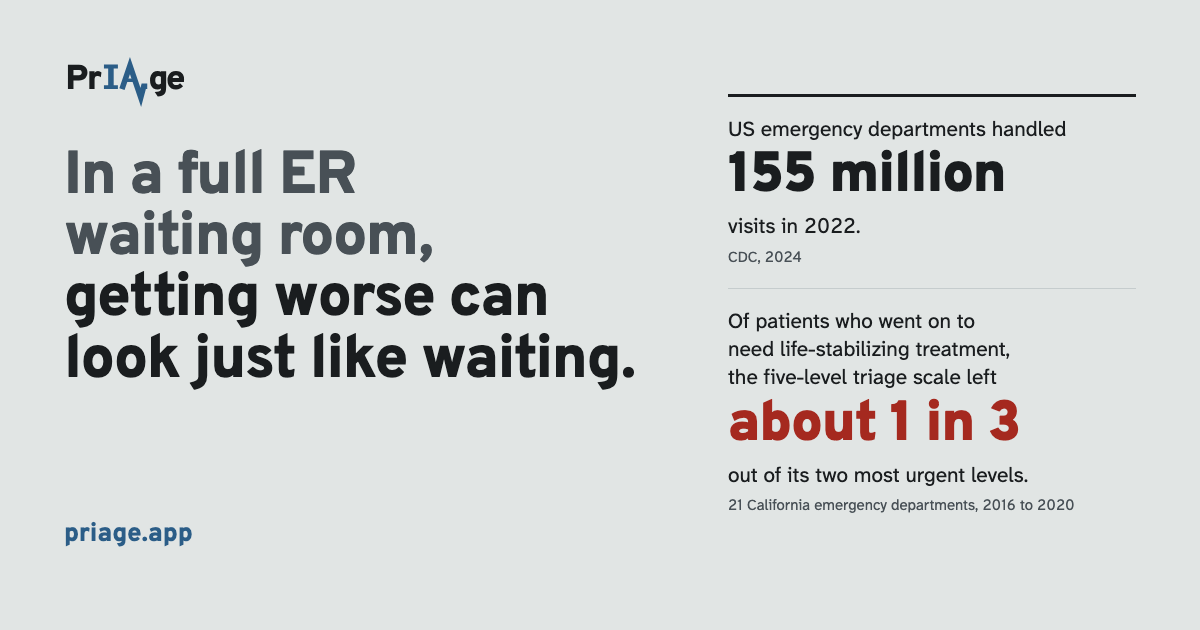
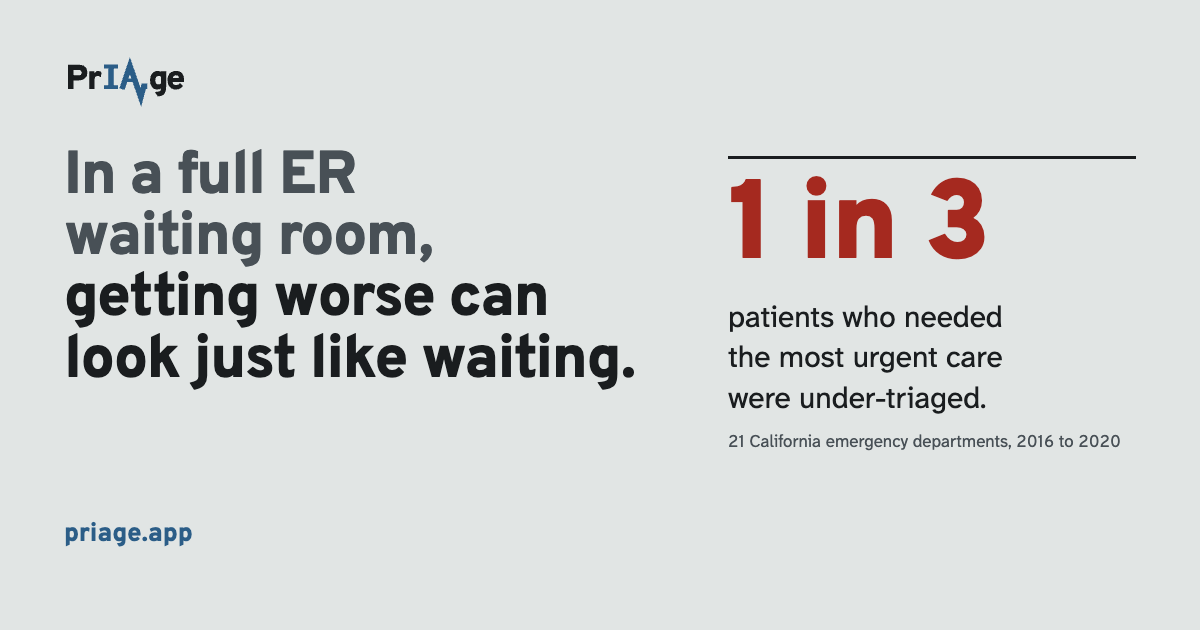
v19: one number, and the period keeps the pulse
The hero states a single figure: 1 in 3 patients who needed the most
urgent care were under-triaged (the triage card carries the nuance and
now uses the same word). The 155 million visits figure and its source
leave the page; sources renumber to seven. The headline trace is gone;
the period of "waiting." pulses 72 times a minute instead, still under
reduced motion. Share card updated to the single number.

Changed region(s): [[0.5858, 0.4825, 0.925, 0.8143], [0.5858, 0.1508, 0.9558, 0.4222]]

diff --git a/docs/index.html b/docs/index.html
@@ -7,25 +7,25 @@
   <meta name="description" content="Patients can wait for hours in the ER, before triage and after it, and it is hard for anyone to see who is getting worse. The numbers, the strain on the people who work there, and what PrIAge is working on.">
   <meta name="robots" content="noindex, nofollow, noarchive, nosnippet, noimageindex">
   <meta name="theme-color" content="#2b5d87">
-  <link rel="icon" href="favicon.svg?v=18" type="image/svg+xml">
+  <link rel="icon" href="favicon.svg?v=19" type="image/svg+xml">
   <link rel="apple-touch-icon" href="apple-touch-icon.png">
   <meta property="og:type" content="website">
   <meta property="og:url" content="https://priage.app/">
   <meta property="og:title" content="In a full ER waiting room, getting worse can look just like waiting.">
   <meta property="og:description" content="Patients can wait for hours in the ER, and it is hard for anyone to see who is getting worse. What happens while people wait, and what PrIAge is working on.">
-  <meta property="og:image" content="https://priage.app/og.png?v=18">
+  <meta property="og:image" content="https://priage.app/og.png?v=19">
   <meta name="twitter:card" content="summary_large_image">
   <link rel="preload" href="fonts/overpass.woff2" as="font" type="font/woff2" crossorigin>
   <link rel="preload" href="fonts/atkinson-next.woff2" as="font" type="font/woff2" crossorigin>
-  <link rel="stylesheet" href="styles.css?v=18">
-  <script src="app.js?v=18" defer></script>
+  <link rel="stylesheet" href="styles.css?v=19">
+  <script src="app.js?v=19" defer></script>
 </head>
 <body>
   <a class="skip" href="#top">Skip to content</a>
 
   <header class="top">
     <div class="wrap nav">
-      <a class="wordmark" href="#top"><img src="logo.svg?v=18" alt="PrIAge" width="120" height="50"></a>
+      <a class="wordmark" href="#top"><img src="logo.svg?v=19" alt="PrIAge" width="120" height="50"></a>
       <nav aria-label="Main">
         <ul>
           <li class="nav-quiet"><a href="#story">The numbers</a></li>
@@ -39,22 +39,12 @@
   <main id="top">
     <section class="hero" aria-labelledby="hero-title">
       <div class="wrap hero-grid">
-        <h1 id="hero-title"><span class="h1-setup">In a full ER waiting room,</span> <span class="h1-turn">getting worse can look just like <span class="h1-end">waiting.<i class="pulse-anchor"></i></span></span><span class="pulse" aria-hidden="true"><svg class="ekg"></svg></span></h1>
+        <h1 id="hero-title"><span class="h1-setup">In a full ER waiting room,</span> <span class="h1-turn">getting worse can look just like waiting<span class="h1-dot">.</span></span></h1>
         <p class="lede">Patients can wait for hours, before triage and after it. While they wait, it is hard for anyone to see who is getting worse.</p>
-        <ul class="hero-stats">
-          <li class="stat">
-            <p class="stat-lead">US emergency departments handled</p>
-            <p class="stat-n">155 million</p>
-            <p class="stat-t">visits in 2022.</p>
-            <p class="stat-src">CDC, 2024<a class="ref" href="#src-1">[1]</a></p>
-          </li>
-          <li class="stat stat-hot">
-            <p class="stat-lead">Of patients who went on to need life-stabilizing treatment, the five-level triage scale left</p>
-            <p class="stat-n">about 1 in 3</p>
-            <p class="stat-t">out of its two most urgent levels.</p>
-            <p class="stat-src">21 emergency departments in one California health system, 2016 to 2020<a class="ref" href="#src-3">[3]</a></p>
-          </li>
-        </ul>
+        <div class="hero-stat">
+          <p class="stat-n">1 in 3</p>
+          <p class="stat-t">patients who needed the most urgent care were under-triaged.<a class="ref" href="#src-2">[2]</a></p>
+        </div>
         <div class="ai-plate">
           <div class="ai-copy">
             <p class="ai-line"><b>PrIAge</b> plans to use AI to help improve outcomes for patients and the professionals who care for them.</p>
@@ -94,7 +84,7 @@
               <p class="key-line" aria-hidden="true"><span><i class="k k-red"></i>Waited over 10 minutes</span><span><i class="k"></i>10 minutes or less</span><span><i class="k k-empty"></i>Empty seat</span></p>
             </div>
             <div class="answer"><b class="n" id="busy-pct">68%</b><p>waited more than 10 minutes to be triaged</p></div>
-            <figcaption class="src">One US emergency department<span class="sep">·</span><a href="#src-2">Houston et al., 2015 [2]</a></figcaption>
+            <figcaption class="src">One US emergency department<span class="sep">·</span><a href="#src-1">Houston et al., 2015 [1]</a></figcaption>
           </figure>
         </li>
 
@@ -104,8 +94,8 @@
             <p class="q">Triage sorts patients into five levels. Of 100 patients who went on to need life-stabilizing treatment, how many were not placed in the two most urgent levels?</p>
             <div class="stage seats-field" aria-hidden="true"></div>
             <noscript><p class="noscript">The chairs need JavaScript; the number is below.</p></noscript>
-            <div class="answer"><b class="n"><span id="triage-count">34</span> of 100</b><p>were not placed in the two most urgent levels. Each chair is one patient.</p></div>
-            <figcaption class="src">21 California emergency departments, 5.3 million adult visits, 2016 to 2020<span class="sep">·</span><a href="#src-3">Sax et al., 2023 [3]</a></figcaption>
+            <div class="answer"><b class="n"><span id="triage-count">34</span> of 100</b><p>were under-triaged: not placed in the two most urgent levels. Each chair is one patient.</p></div>
+            <figcaption class="src">21 California emergency departments, 5.3 million adult visits, 2016 to 2020<span class="sep">·</span><a href="#src-2">Sax et al., 2023 [2]</a></figcaption>
           </figure>
         </li>
 
@@ -118,7 +108,7 @@
               <div class="sign hot"><svg viewBox="0 0 24 24"><path d="M4 12h14m-6-6 6 6-6 6" fill="none" stroke="currentColor" stroke-width="3" stroke-linecap="square"/></svg><span>Left without being seen</span></div>
             </div>
             <div class="answer"><b class="n">2.59 times</b><p>the odds of dying within 30 days for people who left without being seen, after adjusting for other factors</p></div>
-            <figcaption class="src">10 US emergency departments, 1.5 million adult visits<span class="sep">·</span><a href="#src-4">Joseph et al., 2025 [4]</a></figcaption>
+            <figcaption class="src">10 US emergency departments, 1.5 million adult visits<span class="sep">·</span><a href="#src-3">Joseph et al., 2025 [3]</a></figcaption>
           </figure>
         </li>
 
@@ -130,7 +120,7 @@
               <svg class="clock-svg" viewBox="-120 -120 240 240" aria-hidden="true"></svg>
             </div>
             <div class="answer"><b class="n" id="bed-pct">4.5%</b><p id="bed-text">died in the hospital after waiting 12 hours or more, compared with 2.5% for waits under 2 hours</p></div>
-            <figcaption class="src">One US hospital, 41,256 admissions<span class="sep">·</span><a href="#src-5">Singer et al., 2011 [5]</a></figcaption>
+            <figcaption class="src">One US hospital, 41,256 admissions<span class="sep">·</span><a href="#src-4">Singer et al., 2011 [4]</a></figcaption>
           </figure>
         </li>
 
@@ -151,7 +141,7 @@
               </div>
             </div>
             <div class="answer"><b class="n n-ink" id="ward-num">75.3%</b><p id="ward-text">of staffed beds in use on an average day after the pandemic, up from 63.9% before it, as staffed beds fell from 802,000 to 674,000</p></div>
-            <figcaption class="src">US national hospital data, 2009 to 2024<span class="sep">·</span><a href="#src-6">Leuchter et al., 2025 [6]</a></figcaption>
+            <figcaption class="src">US national hospital data, 2009 to 2024<span class="sep">·</span><a href="#src-5">Leuchter et al., 2025 [5]</a></figcaption>
           </figure>
         </li>
 
@@ -161,7 +151,7 @@
             <p class="q">Of 100 nurses who left a job because of burnout, how many said staffing was inadequate?</p>
             <div class="stage locker-field" aria-hidden="true"></div>
             <div class="answer"><b class="n"><span id="locker-count">63</span> of 100</b><p>said staffing was inadequate. Each locker is one nurse.</p></div>
-            <figcaption class="src">Survey of 50,273 US registered nurses<span class="sep">·</span><a href="#src-7">Shah et al., 2021 [7]</a></figcaption>
+            <figcaption class="src">Survey of 50,273 US registered nurses<span class="sep">·</span><a href="#src-6">Shah et al., 2021 [6]</a></figcaption>
           </figure>
         </li>
 
@@ -186,7 +176,7 @@
               </div>
             </div>
             <div class="answer"><b class="n n-ink">$863 more</b><p>a day per stroke patient waiting in the ER, with 20 fewer minutes of nursing time</p></div>
-            <figcaption class="src">One US stroke center<span class="sep">·</span><a href="#src-8">Canellas et al., 2024 [8]</a></figcaption>
+            <figcaption class="src">One US stroke center<span class="sep">·</span><a href="#src-7">Canellas et al., 2024 [7]</a></figcaption>
           </figure>
         </li>
 
@@ -268,28 +258,26 @@
   <footer class="sources" aria-labelledby="sources-title">
     <div class="wrap">
       <details class="src-box" id="sources">
-        <summary><h2 id="sources-title">Sources</h2><span class="src-box-note">Eight studies and reports, with the sentence behind each number</span></summary>
+        <summary><h2 id="sources-title">Sources</h2><span class="src-box-note">Seven studies and reports, with the sentence behind each number</span></summary>
         <p class="sources-note">Each number is quoted from these sentences or worked out from them, as shown. Study sizes, places and years come from the same papers.</p>
         <ol>
-          <li id="src-1">Cairns C, Ashman JJ, Kang K. Emergency Department Visit Rates by Selected Characteristics: United States, 2022. NCHS Data Brief No. 503. National Center for Health Statistics; 2024. <a href="https://www.cdc.gov/nchs/products/databriefs/db503.htm">cdc.gov</a>
-            <q>In 2022, 155 million emergency department (ED) visits occurred in the United States.</q></li>
-          <li id="src-2">Houston C, Sanchez LD, Fischer C, Volz K, Wolfe R. Waiting for triage: unmeasured time in patient flow. <i>Western Journal of Emergency Medicine</i>. 2015. <a href="https://doi.org/10.5811/westjem.2014.11.22824">doi:10.5811/westjem.2014.11.22824</a>
+          <li id="src-1">Houston C, Sanchez LD, Fischer C, Volz K, Wolfe R. Waiting for triage: unmeasured time in patient flow. <i>Western Journal of Emergency Medicine</i>. 2015. <a href="https://doi.org/10.5811/westjem.2014.11.22824">doi:10.5811/westjem.2014.11.22824</a>
             <q>When stratified by the number of new patients who arrived in the ED in the previous hour, the percentage of greeted patients who waited more than 10 minutes for triage was: 0-5 new patients - 12.4%; 6-10 new patients - 48.8%; 11-15 new patients - 64.4%; 16+ new patients - 68%.</q>
             <span class="gloss">The drawing uses the nearest whole seats: 1 of 8, 6 of 12, 11 of 17 and 15 of 22.</span></li>
-          <li id="src-3">Sax DR, Warton EM, Mark DG, et al. Evaluation of Version 4 of the Emergency Severity Index in US Emergency Departments for the Rate of Mistriage. <i>JAMA Network Open</i>. 2023;6(3):e233404. <a href="https://doi.org/10.1001/jamanetworkopen.2023.3404">doi:10.1001/jamanetworkopen.2023.3404</a>
+          <li id="src-2">Sax DR, Warton EM, Mark DG, et al. Evaluation of Version 4 of the Emergency Severity Index in US Emergency Departments for the Rate of Mistriage. <i>JAMA Network Open</i>. 2023;6(3):e233404. <a href="https://doi.org/10.1001/jamanetworkopen.2023.3404">doi:10.1001/jamanetworkopen.2023.3404</a>
             <q>The sensitivity of ESI to identify a patient with high-acuity illness (correctly assigning ESI I or II among patients who had a life-stabilizing intervention) was 65.9%.</q>
             <span class="gloss">ESI is the five-level triage scale; ESI I and II are its two most urgent levels. 100 minus 65.9 is 34.1, shown as 34 of 100 and about 1 in 3. Adult visits from January 2016 to December 2020 at 21 Kaiser Permanente Northern California emergency departments.</span></li>
-          <li id="src-4">Joseph JW, Bukhman AK, Baymon DE, et al. Mortality and Return Visit Frequency Among Emergency Department Patients Who Leave Without Being Seen at a Regional Health Care System. <i>Joint Commission Journal on Quality and Patient Safety</i>. 2025;51(7-8):466-473. <a href="https://doi.org/10.1016/j.jcjq.2025.02.008">doi:10.1016/j.jcjq.2025.02.008</a>
+          <li id="src-3">Joseph JW, Bukhman AK, Baymon DE, et al. Mortality and Return Visit Frequency Among Emergency Department Patients Who Leave Without Being Seen at a Regional Health Care System. <i>Joint Commission Journal on Quality and Patient Safety</i>. 2025;51(7-8):466-473. <a href="https://doi.org/10.1016/j.jcjq.2025.02.008">doi:10.1016/j.jcjq.2025.02.008</a>
             <q>Independent of other clinical and demographic variables, LWBS was associated with more frequent returns within 72 hours (adjusted odds ratio [AOR] 2.56, 95% CI 2.50-2.62, p &lt; 0.001), 30-day ICU admission (AOR 1.35, 95% CI 1.27-1.66, p &lt; 0.001), and mortality within 30 days (AOR 2.59, 95% CI 1.90-3.53, p &lt;0.001).</q>
             <span class="gloss">LWBS means left without being seen. The comparison group is patients who were seen and sent home.</span></li>
-          <li id="src-5">Singer AJ, Thode HC, Viccellio P, Pines JM. The association between length of emergency department boarding and mortality. <i>Academic Emergency Medicine</i>. 2011. <a href="https://doi.org/10.1111/j.1553-2712.2011.01236.x">doi:10.1111/j.1553-2712.2011.01236.x</a>
+          <li id="src-4">Singer AJ, Thode HC, Viccellio P, Pines JM. The association between length of emergency department boarding and mortality. <i>Academic Emergency Medicine</i>. 2011. <a href="https://doi.org/10.1111/j.1553-2712.2011.01236.x">doi:10.1111/j.1553-2712.2011.01236.x</a>
             <q>Mortality generally increased with increasing boarding time, from 2.5% in patients boarded less than 2 hours to 4.5% in patients boarding 12 hours or more.</q></li>
-          <li id="src-6">Leuchter RK, Delarmente BA, Vangala S, Tsugawa Y, Sarkisian CA. Health Care Staffing Shortages and Potential National Hospital Bed Shortage. <i>JAMA Network Open</i>. 2025;8(2):e2460645. <a href="https://doi.org/10.1001/jamanetworkopen.2024.60645">doi:10.1001/jamanetworkopen.2024.60645</a>
+          <li id="src-5">Leuchter RK, Delarmente BA, Vangala S, Tsugawa Y, Sarkisian CA. Health Care Staffing Shortages and Potential National Hospital Bed Shortage. <i>JAMA Network Open</i>. 2025;8(2):e2460645. <a href="https://doi.org/10.1001/jamanetworkopen.2024.60645">doi:10.1001/jamanetworkopen.2024.60645</a>
             <q>The number of staffed hospital beds declined from a prepandemic steady state of 802 000 (2009-2019 mean) to a post-PHE steady state of 674 000, whereas the mean daily census steady state remained at approximately 510 000</q>
             <q>The mean US hospital occupancy was 63.9% (range, 63%-66%) from 2009 to 2019 compared with 75.3% (range, 72%-79%) in the year following the end of the COVID-19 public health emergency (PHE; May 2023 to April 2024)</q></li>
-          <li id="src-7">Shah MK, Gandrakota N, Cimiotti JP, Ghose N, Moore M, Ali MK. Prevalence of and Factors Associated With Nurse Burnout in the US. <i>JAMA Network Open</i>. 2021;4(2):e2036469. <a href="https://doi.org/10.1001/jamanetworkopen.2020.36469">doi:10.1001/jamanetworkopen.2020.36469</a>
+          <li id="src-6">Shah MK, Gandrakota N, Cimiotti JP, Ghose N, Moore M, Ali MK. Prevalence of and Factors Associated With Nurse Burnout in the US. <i>JAMA Network Open</i>. 2021;4(2):e2036469. <a href="https://doi.org/10.1001/jamanetworkopen.2020.36469">doi:10.1001/jamanetworkopen.2020.36469</a>
             <q>Respondents who reported leaving or considering leaving their job owing to burnout reported a stressful work environment (68.6% and 59.5%, respectively) and inadequate staffing (63.0% and 60.9%, respectively).</q></li>
-          <li id="src-8">Canellas MM, Jewell M, Edwards JL, Olivier D, Jun-O'Connell AH, Reznek MA. Measurement of Cost of Boarding in the Emergency Department Using Time-Driven Activity-Based Costing. <i>Annals of Emergency Medicine</i>. 2024;84(4):376-385. <a href="https://doi.org/10.1016/j.annemergmed.2024.04.012">doi:10.1016/j.annemergmed.2024.04.012</a>
+          <li id="src-7">Canellas MM, Jewell M, Edwards JL, Olivier D, Jun-O'Connell AH, Reznek MA. Measurement of Cost of Boarding in the Emergency Department Using Time-Driven Activity-Based Costing. <i>Annals of Emergency Medicine</i>. 2024;84(4):376-385. <a href="https://doi.org/10.1016/j.annemergmed.2024.04.012">doi:10.1016/j.annemergmed.2024.04.012</a>
             <q>The total daily cost per patient with acute stroke was US$1856, for med/surg boarding versus US$993 for med/surg inpatient care</q>
             <q>ED nurses spent 293 min/d (mean) caring for each med/surg boarder; inpatient nurses spent 313 min/d for each med/surg inpatient.</q>
             <span class="gloss">$1,856 minus $993 is $863; 313 minus 293 is 20 minutes.</span></li>

diff --git a/docs/styles.css b/docs/styles.css
@@ -176,23 +176,17 @@ p { text-wrap: pretty; }
 /* a setup and a punchline: the second line lands darker */
 .hero h1 { grid-area: title; font-size: clamp(2.5rem, 1.2rem + 4.2vw, 4.75rem); line-height: 1; letter-spacing: -0.022em; }
 .h1-setup, .h1-turn { display: block; }
-/* the pulse runs out of the last word, on the headline's baseline (placed by app.js) */
-.hero h1 { position: relative; }
-.pulse-anchor { display: inline-block; width: 0; height: 0; vertical-align: baseline; }
-.pulse { position: absolute; left: 0; top: 0; width: 0; height: 0; pointer-events: none; }
-.pulse svg { display: block; width: 100%; height: 100%; overflow: visible; }
-.ekg-line { fill: none; stroke: var(--seat); stroke-linejoin: round; stroke-linecap: round; }
-.ekg-gap { fill: var(--floor); }
-.ekg-dot { fill: var(--seat); }
-.ekg-ring { fill: none; stroke: var(--seat); opacity: 0; transform-box: fill-box; transform-origin: center; }
-@keyframes ekg-blink {
-  0%, 31% { opacity: 0; transform: scale(1); }
-  33% { opacity: 0.6; transform: scale(1); }
-  80%, 100% { opacity: 0; transform: scale(3.2); }
-}
 .h1-setup { color: var(--ink-soft); }
+/* the period of "waiting." is the page's pulse: 72 times a minute it flushes Seat Blue and
+   swells a little, then settles back to ink */
+.h1-dot { display: inline-block; transform-origin: 50% 80%; animation: period-beat 833.333ms linear infinite; }
+@keyframes period-beat {
+  0% { color: var(--ink); transform: scale(1); }
+  5% { color: var(--seat); transform: scale(1.25); animation-timing-function: cubic-bezier(0.33, 0, 0.2, 1); }
+  55%, 100% { color: var(--ink); transform: scale(1); }
+}
 .lede { grid-area: lede; align-self: start; margin-top: 28px; max-width: 34ch; font-size: clamp(1.1875rem, 1.05rem + 0.45vw, 1.375rem); line-height: 1.5; }
-.hero-stats { grid-area: stats; margin-top: 28px; align-self: start; }
+.hero-stat { grid-area: stats; margin-top: 28px; align-self: start; }
 
 /* PrIAge's line, featured: a dark plate that carries the ask */
 .ai-plate {
@@ -209,16 +203,10 @@ p { text-wrap: pretty; }
 .ai-stage { margin-top: 8px; font-size: 1rem; color: var(--on-seat-soft); }
 .ai-plate .btn { flex: none; }
 
-/* two numbers that state the problem before any scrolling */
-.hero-stats { border-top: 2px solid var(--ink); }
-.stat { padding-block: 20px 22px; }
-.stat + .stat { border-top: 1px solid var(--rule); }
-/* each stat reads as one sentence split around its number: who, how many, what happened */
-.stat-lead { max-width: 34ch; font-size: 1.0625rem; line-height: 1.4; }
-.stat-n { margin-top: 6px; white-space: nowrap; font-family: var(--sign); font-weight: 900; font-size: clamp(2.25rem, 1.2rem + 2.4vw, 3.625rem); line-height: 0.95; letter-spacing: -0.02em; font-variant-numeric: tabular-nums; }
-.stat-hot .stat-n { color: var(--mark-ink); }
-.stat-t { margin-top: 6px; max-width: 32ch; font-size: 1.0625rem; line-height: 1.4; }
-.stat-src { margin-top: 6px; font-size: 0.8125rem; color: var(--ink-soft); }
+/* one number states the problem before any scrolling; the triage card gives its nuance */
+.hero-stat { display: flex; flex-wrap: wrap; align-items: center; gap: 8px 28px; padding-block: 20px 22px; border-top: 2px solid var(--ink); }
+.stat-n { white-space: nowrap; font-family: var(--sign); font-weight: 900; font-size: clamp(3rem, 1.6rem + 3.4vw, 5rem); line-height: 0.95; letter-spacing: -0.02em; font-variant-numeric: tabular-nums; color: var(--mark-ink); }
+.stat-t { flex: 1 1 16ch; max-width: 30ch; font-size: clamp(1.1875rem, 1.05rem + 0.45vw, 1.375rem); line-height: 1.4; text-wrap: balance; }
 
 /* ---------- The story: a strip of scenes that scrolls sideways ---------- */
 
@@ -507,14 +495,7 @@ p { text-wrap: pretty; }
   /* on narrow screens the numbers sit right under the sentence they prove */
   .hero-grid { grid-template-columns: minmax(0, 1fr); grid-template-areas: "title" "lede" "stats" "plate"; }
   .lede { max-width: 44ch; margin-top: 20px; }
-  .hero-stats { margin-top: 24px; }
-}
-@media (min-width: 600px) {
-  .hero-stats { display: grid; grid-template-columns: repeat(2, minmax(0, 1fr)); grid-template-rows: repeat(4, auto); column-gap: 32px; }
-  /* subgrid lines the two numbers up on one row however long each lead-in runs */
-  .stat { display: grid; grid-row: span 4; grid-template-rows: subgrid; align-content: start; }
-  .stat-n { align-self: end; }
-  .stat + .stat { border-top: 0; }
+  .hero-stat { margin-top: 24px; }
 }
 
 /* ---------- Phones ---------- */
@@ -526,8 +507,7 @@ p { text-wrap: pretty; }
   .nav .nav-quiet { display: none; }
   .nav .nav-talk { padding: 13px 14px; font-size: 0.9375rem; }
   .btn { font-size: 1.0625rem; }
-  .stat { padding-block: 16px 18px; }
-  .stat-n { font-size: 2.375rem; }
+  .hero-stat { padding-block: 16px 18px; }
   .room-sub { min-height: 2.9em; }
   .ai-plate { flex-direction: column; align-items: flex-start; }
   .people { grid-template-columns: minmax(0, 1fr); }
@@ -548,8 +528,8 @@ p { text-wrap: pretty; }
 
 @media (prefers-reduced-motion: reduce) {
   *, *::before, *::after { transition-duration: 0s !important; scroll-behavior: auto !important; }
-  /* the trace stays, still */
-  .ekg-gap, .ekg-head { display: none; }
+  /* the period holds still */
+  .h1-dot { animation: none; }
 }
 
 @media print {

diff --git a/docs/app.js b/docs/app.js
@@ -88,68 +88,6 @@
     io.observe(node);
   }
 
-  // ---------- The pulse that runs out of "waiting." ----------
-  // A bedside-monitor trace on the headline's baseline: the line holds still, a gap sweeps
-  // across it, and a dot rides the leading edge and pulses on every beat. 72 beats a minute.
-  const title = document.getElementById("hero-title");
-  const pulse = title?.querySelector(".pulse");
-  if (pulse) {
-    const svg = pulse.querySelector("svg"), anchor = title.querySelector(".pulse-anchor");
-    const BEAT_MS = 60000 / 72;
-    const sheet = document.createElement("style");
-    document.head.append(sheet);
-    // one beat, u from 0 to 1: P wave, the QRS spike, T wave
-    const wave = (u) => {
-      const g = (c, w, a) => a * Math.exp(-((u - c) ** 2) / (2 * w * w));
-      return g(0.16, 0.028, 0.11) + g(0.3, 0.008, -0.1) + g(0.33, 0.009, 1) + g(0.36, 0.01, -0.26) + g(0.58, 0.05, 0.22);
-    };
-    let lastKey = "";
-    const place = () => {
-      title.style.paddingBottom = "";
-      const fs = parseFloat(getComputedStyle(title).fontSize);
-      const box = title.getBoundingClientRect(), a = anchor.getBoundingClientRect();
-      const h = Math.round(fs * 0.95), base = Math.round(h * 0.82), beatW = fs * 1.5, gap = fs * 0.22;
-      let left = a.left - box.left + gap, w = box.width - left, top = a.top - box.top - base;
-      if (w < beatW * 1.6) {
-        // too little room after the word: the pulse takes its own line, starting under "waiting."
-        const word = title.querySelector(".h1-end").getClientRects();
-        left = word[word.length - 1].left - box.left;
-        if (box.width - left < beatW * 1.6) left = 0;
-        w = box.width - left; top = a.top - box.top + fs * 0.32 - base + h;
-        title.style.paddingBottom = `${Math.round(h * 0.9)}px`;
-      }
-      w = Math.round(w);
-      Object.assign(pulse.style, { left: `${left}px`, top: `${top}px`, width: `${w}px`, height: `${h}px` });
-      const key = `${w}x${h}`;
-      if (key === lastKey) return;
-      lastKey = key;
-      // a whole number of beats per sweep keeps the dot and the blink in step forever
-      const beats = Math.max(1, Math.round(w / beatW)), period = w / beats, amp = h * 0.8;
-      const y = (x) => base - amp * wave((x / period) % 1);
-      let d = "";
-      for (let x = 0; x <= w; x++) d += `${x ? "L" : "M"}${x} ${y(x).toFixed(1)}`;
-      const sw = Math.max(2.5, fs * 0.07), r = Math.max(4, fs * 0.075);
-      svg.setAttribute("viewBox", `0 0 ${w} ${h}`);
-      svg.innerHTML = `<path class="ekg-line" d="${d}" stroke-width="${sw.toFixed(1)}"/>`
-        + `<rect class="ekg-gap" x="0" y="${-h * 0.1}" width="${Math.round(period * 0.28)}" height="${h * 1.3}"/>`
-        + `<g class="ekg-head"><circle class="ekg-ring" r="${r.toFixed(1)}" stroke-width="${(sw * 0.6).toFixed(1)}"/><circle class="ekg-dot" r="${r.toFixed(1)}"/></g>`;
-      const sweep = beats * BEAT_MS, steps = Math.round(w / 1.5);
-      let k = "";
-      for (let i = 0; i <= steps; i++) {
-        const x = (w * i) / steps;
-        k += `${((100 * i) / steps).toFixed(3)}%{transform:translate(${x.toFixed(1)}px,${y(x).toFixed(1)}px)}`;
-      }
-      sheet.textContent = `@keyframes ekg-head{${k}}`
-        + `@keyframes ekg-gap{from{transform:translateX(0)}to{transform:translateX(${w}px)}}`
-        + `.ekg-head{animation:ekg-head ${sweep}ms linear infinite}`
-        + `.ekg-gap{animation:ekg-gap ${sweep}ms linear infinite}`
-        + `.ekg-ring{animation:ekg-blink ${BEAT_MS}ms linear infinite}`;
-    };
-    place();
-    addEventListener("resize", place);
-    document.fonts?.ready.then(place);
-  }
-
   // ---------- 1. The wait to be triaged: the room fills up ----------
   const room = document.querySelector('[data-scene="room"]');
   if (room) {

diff --git a/brand/build/og.html b/brand/build/og.html
@@ -23,11 +23,11 @@
   .stats { align-self: center; border-top: 3px solid #1a1d1f; }
   .stat { padding: 18px 0 20px; }
   .stat + .stat { border-top: 1px solid #c5cccd; }
-  .n { font: 900 56px/0.95 "Overpass", sans-serif; letter-spacing: -0.02em; }
+  .n { font: 900 112px/0.95 "Overpass", sans-serif; letter-spacing: -0.02em; }
   .hot .n { color: #a5291f; }
   .lead { font-size: 21px; line-height: 1.35; max-width: 430px; text-wrap: balance; margin-bottom: 8px; }
-  .t { margin-top: 8px; font-size: 21px; line-height: 1.35; max-width: 430px; text-wrap: balance; }
-  .src { margin-top: 6px; font-size: 15px; color: #485056; }
+  .t { margin-top: 14px; font-size: 30px; line-height: 1.35; max-width: 430px; text-wrap: balance; }
+  .src { margin-top: 12px; font-size: 17px; color: #485056; }
   .nb { white-space: nowrap; }
   .bench { width: 96px; height: auto; margin-bottom: 14px; overflow: visible; display: block; }
   .chair rect { fill: #2b5d87; } .chair .leg { fill: #1f4566; }
@@ -42,16 +42,9 @@
     <p class="url">priage.app</p>
   </div>
   <div class="stats">
-    <div class="stat">
-      <div class="lead">US emergency departments handled</div>
-      <div class="n">155 million</div>
-      <div class="t">visits in 2022.</div>
-      <div class="src">CDC, 2024</div>
-    </div>
     <div class="stat hot">
-      <div class="lead">Of patients who went on to need <span class="nb">life-stabilizing</span> treatment, the five-level triage scale left</div>
-      <div class="n">about 1 in 3</div>
-      <div class="t">out of its two most urgent levels.</div>
+      <div class="n">1 in 3</div>
+      <div class="t">patients who needed the most urgent care were under-triaged.</div>
       <div class="src">21 California emergency departments, 2016 to 2020</div>
     </div>
   </div>

diff --git a/docs/404.html b/docs/404.html
@@ -5,14 +5,14 @@
   <meta name="viewport" content="width=device-width, initial-scale=1">
   <title>Page not found · PrIAge</title>
   <meta name="robots" content="noindex, nofollow, noarchive">
-  <link rel="icon" href="/favicon.svg?v=17" type="image/svg+xml">
+  <link rel="icon" href="/favicon.svg?v=19" type="image/svg+xml">
   <link rel="apple-touch-icon" href="/apple-touch-icon.png">
-  <link rel="stylesheet" href="/styles.css?v=17">
+  <link rel="stylesheet" href="/styles.css?v=19">
 </head>
 <body>
   <main class="hero lost-page">
     <div class="wrap">
-      <a class="wordmark" href="/"><img src="/logo.svg?v=17" alt="PrIAge" width="160" height="67"></a>
+      <a class="wordmark" href="/"><img src="/logo.svg?v=19" alt="PrIAge" width="160" height="67"></a>
       <svg class="lost-seat" viewBox="0 0 24 30" width="96" height="120" aria-hidden="true">
         <rect x="4" y="0" width="16" height="15" rx="2" fill="#2b5d87"/>
         <rect x="1.5" y="16" width="21" height="4.5" rx="1" fill="#2b5d87"/>

diff --git a/DESIGN.md b/DESIGN.md
@@ -368,3 +368,11 @@ The logo SVGs (docs/logo.svg and brand/priage-logo, -black, -white, -reversed) h
 
 The headline ends in a live heartbeat: a bedside-monitor trace in Seat Blue starts a quarter em after "waiting." on the text's baseline and runs to the right edge. The trace holds still while a floor-colored gap sweeps across it; a dot rides the leading edge and a ring pulses from it on every R wave. 72 beats a minute, calm and regular, so it echoes the headline: the pulse looks normal. The sweep is always a whole number of beats, so the dot and the blink never drift apart. Sizes scale with the headline (height 0.95em, beat 1.5em, stroke 0.07em). When the last line leaves less than 1.6 beats of room, the pulse takes its own line under "waiting.". app.js measures and places it on load, on font load and on resize; it is aria-hidden. Reduced motion shows the trace still, with no gap or dot. Motion runs on the compositor (transform keyframes generated once per size).
 
+
+## v19: one number, and the period keeps the pulse (2026-10-18)
+
+The hero says one number, plainly: "1 in 3 patients who needed the most urgent care were under-triaged." It sits beside the lede as a Signage Red Ink figure with one Atkinson sentence, under a 2px ink rule. The owner asked for "1 in 3 people get under-triaged". We did not use that wording because it overstates the study about tenfold: across all ER visits, under-triage was 3.3%, and the 1 in 3 is only among patients who went on to need life-stabilizing treatment. The nuance lives on the strip's triage card, which now opens its answer with the same word ("were under-triaged: not placed in the two most urgent levels"). The 155 million visits figure left the page, so its source went with it and the list renumbers to seven. The share card (og.png) carries the single number with its setting line.
+
+The headline's heartbeat trace (v18) is gone at the owner's request. The period of "waiting." is now the page's pulse: 72 times a minute it flushes Seat Blue and swells to 1.25x, then settles back to ink over about 400ms. It is pure CSS on an inline-block span, so the headline's text is unchanged for screen readers. Under reduced motion the period holds still.
+
+Open: this number shows that triage misses some of the sickest patients, which supports "hard to see who is getting worse". It does not show that people get worse or die in the waiting room itself. Twenty searches found no study counting deaths or deterioration inside ER waiting rooms. The closest verified US figure is the left-without-being-seen card (2.59 times the odds of dying within 30 days).
